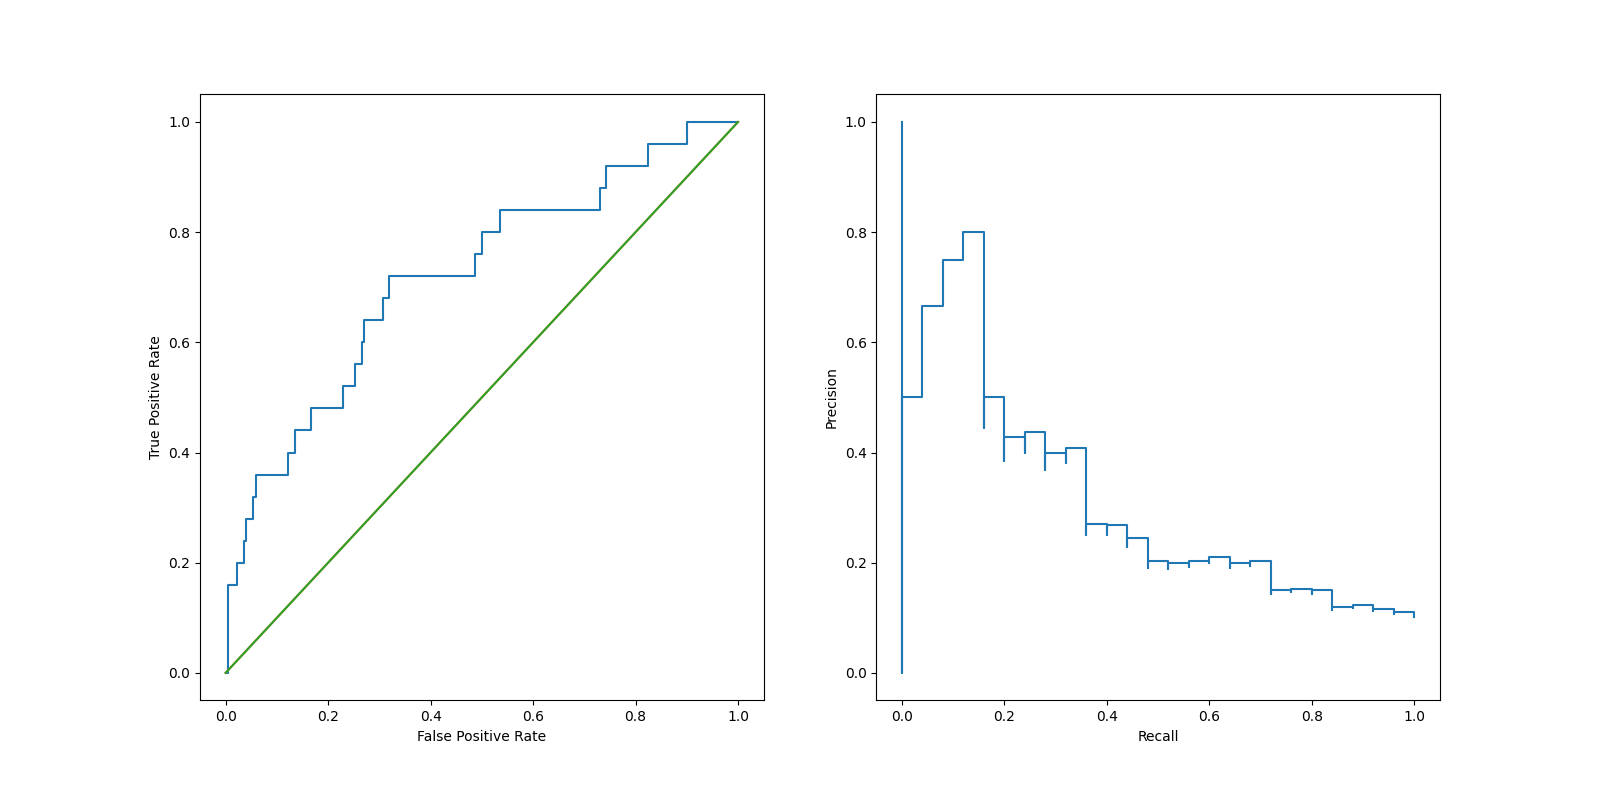
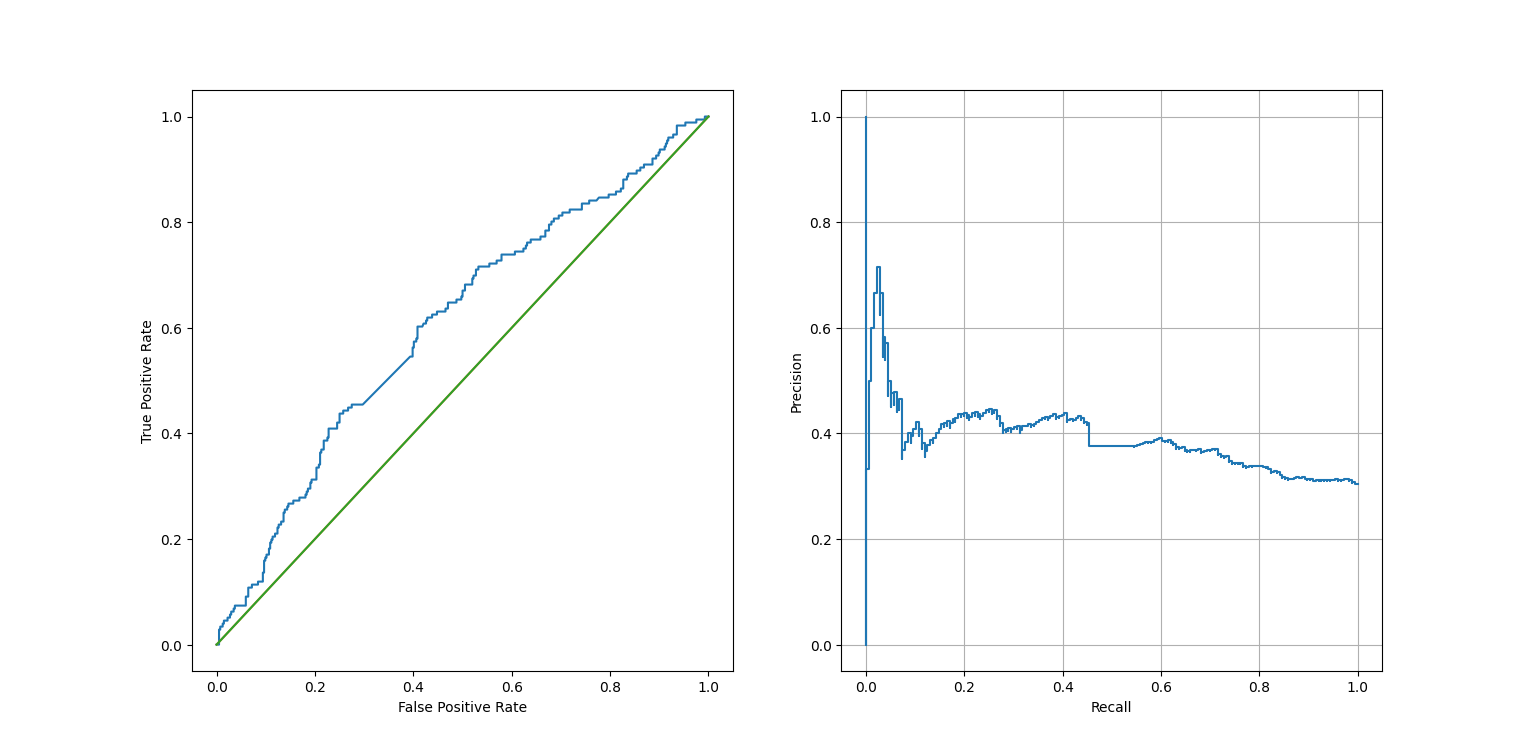
update README

diff --git a/README.md b/README.md
@@ -9,7 +9,7 @@ However, the problem was simplified to a Binary Classification model "Viral" and
 The model is far from perfect, with quite low precision/recall/F1-scores. However, some interesting insights are still observed. Two reasons why the model does not perform well are
 - *Not enough data*. We are using only `n=2897` data points, and the number of features `m` is `m>>n`. This is because we are using NLP, and each unique word is essentially a dimension/feature.
 - *Caption is not a strong predictor*: Perhaps other features like the sentiment of the post, the time of day it is posted etc are stronger predictors, which are not being taken into consideration. 
-I believe that the first one is more likely, as `n=987` is a far too small sample size, but it is challenging to gather much more data. 
+I believe that the first one is more likely, as `n=2897` is a far too small sample size for such a high-dimensional problem. It is challenging to gather much more data. 
 ## Data Sample
 The data can be found [here](https://docs.google.com/spreadsheets/d/1mGNZX6qb7hMnKa9va_cyTjJm-B9RGV225U_JzEZryHw/edit#gid=0). A 3-row sample is
 
@@ -21,10 +21,10 @@ The data can be found [here](https://docs.google.com/spreadsheets/d/1mGNZX6qb7hM
 
 ## Methodology
 The below steps were followed:
-- **Data Cleansing**: stemming, lemmatization, lower case, replacing URLs with a placeholder word
-- **Stop Words**: Remove common english words, along with those shown in only one caption, and words shown in more than 30% of posts
-- **Use of 2-grams**, which manages to capture words/names which might have a significant impact such as "Joseph Muscat" or "Bernard Grech".
-- **TfidVectorizer**
+- **Data Cleansing**: POS tagging (take only nouns) stemming, lower case, replacing URLs with a placeholder word
+- **Stop Words**: Remove common english words, along with those shown in only one caption, and words shown in more than 70% of posts
+- **Use of up to 3-grams**, which manages to capture words/names which might have a significant impact such as "Joseph Muscat" or "Bernard Grech".
+- **TfidVectorizer** to vectorize words in the corpus
 -  **Oversample** due to class imbalance
 - **Extra features** such day of the week (Monday, Tuesday etc) and the length of the post in number of words
 - Fit **Logistic Regression** model
@@ -33,22 +33,23 @@ At the time being, only a linear model (Logistic Regression) using stochastic gr
 
 Both $L^1$ and $L^2$ regularization were used, with the former showing slightly better results. Other parameters were left as the default values of the`sklearn.linear_model.SGDClassifier` class.
 
-There is a class imbalance, as only 8.5% are considered as viral using our definition. Oversampling showed slight improvement to accuracy, so is  implemented. The train-test split is chosen to be 75%. The model runs almost instantaneously with around 1300 sample size (due to oversampling). The numpy seed is set to 42 for reproducibility.
+There is a class imbalance, as 30% are considered as viral using our definition. Oversampling showed a significant improvement to F1-score. The train-test split is chosen to be at a 70:30 ratio. The model runs almost instantaneously with around 3000 sample size at around 2 seconds. The numpy seed is set to 42 for reproducibility.
 
-The below metrics are calculated based on the 25% testing data.
+The below metrics are calculated based on the 30% testing data.
 
-| Metric | Score |
-|--|--|
-| Accuracy |  87.8%|
-| Precision |  0.3913|
-| Recall |  36%|
-| F1 Score |  0.375|
+| Metric | Score  |
+|--|--------|
+| Accuracy | 62.76% |
+| Precision | 40.00% |
+| Recall | 45.45% |
+| F1 Score | 42.55% |
 
 ## Analysis
-- The accuracy is at a good value of almost 88%, however the recall is at 36%, which indicates that there is *some* predictive power in the model, although not great either. 
-- The low-values of precision and F1-scores are not as promising, both being less than 0.4. Below we see the ROC curve, and precision-recall curve. 
-- Of the Non Viral posts, 94% were correctly identified. However, this is not as impressive due to the class imbalance
-- Of the Viral posts in the test data, the model managed to guess 36% of them correctly based on the caption and the day of the week. This might be considered as "good" depending on the context and user. Correctly identifying a third of your posts as "viral-worthy" might be considered useful 
+- The accuracy is at a low value of almost 63%.
+- The precision, recall and F1 scores are all at around a value of 42%. This is typically not a good sign, and suggests that the model needs serious improvement. This is challenging to do due to the limited test size provided. Below we can also see the ROC curve, and precision-recall curve. 
+- Having said that, the values were compared to a DummyClassifier as a baseline model. Compared to this, the Logistic Regression model displays a significant improvement over this baseline model, indicating that there is some form of predictive power when it comes to the caption.
+- Of the Non-Viral posts, 61% were correctly identified.
+- Of the Viral posts in the test data, the model managed to guess 54% of them correctly. This is certainly not due to chance, as only around 30% of the test set contains posts with more than 23 engagement. 
 
 ![ROC Curve](https://github.com/DylanZammit/Facebook-Virality-Predictor/blob/master/img/ROC.png?raw=true)
 

diff --git a/ViralityModel/README.md b/ViralityModel/README.md
@@ -1,0 +1,18 @@
+# Running the script
+Firstly, download the necessary python packages using
+> pip install -r requirements.txt
+> 
+
+
+To reproduce the results in the readme of the root page, the following command needs to be run.
+
+>python model.py --oversample --classifier SGD --threshold 0.5 --viral_threshold 23
+
+You must also download the necessary `nltk` files by uncommenting on the first run
+```
+nltk.download('stopwords')
+nltk.download('punkt')
+nltk.download('wordnet')
+nltk.download('omw-1.4')
+nltk.download('averaged_perceptron_tagger')
+```
